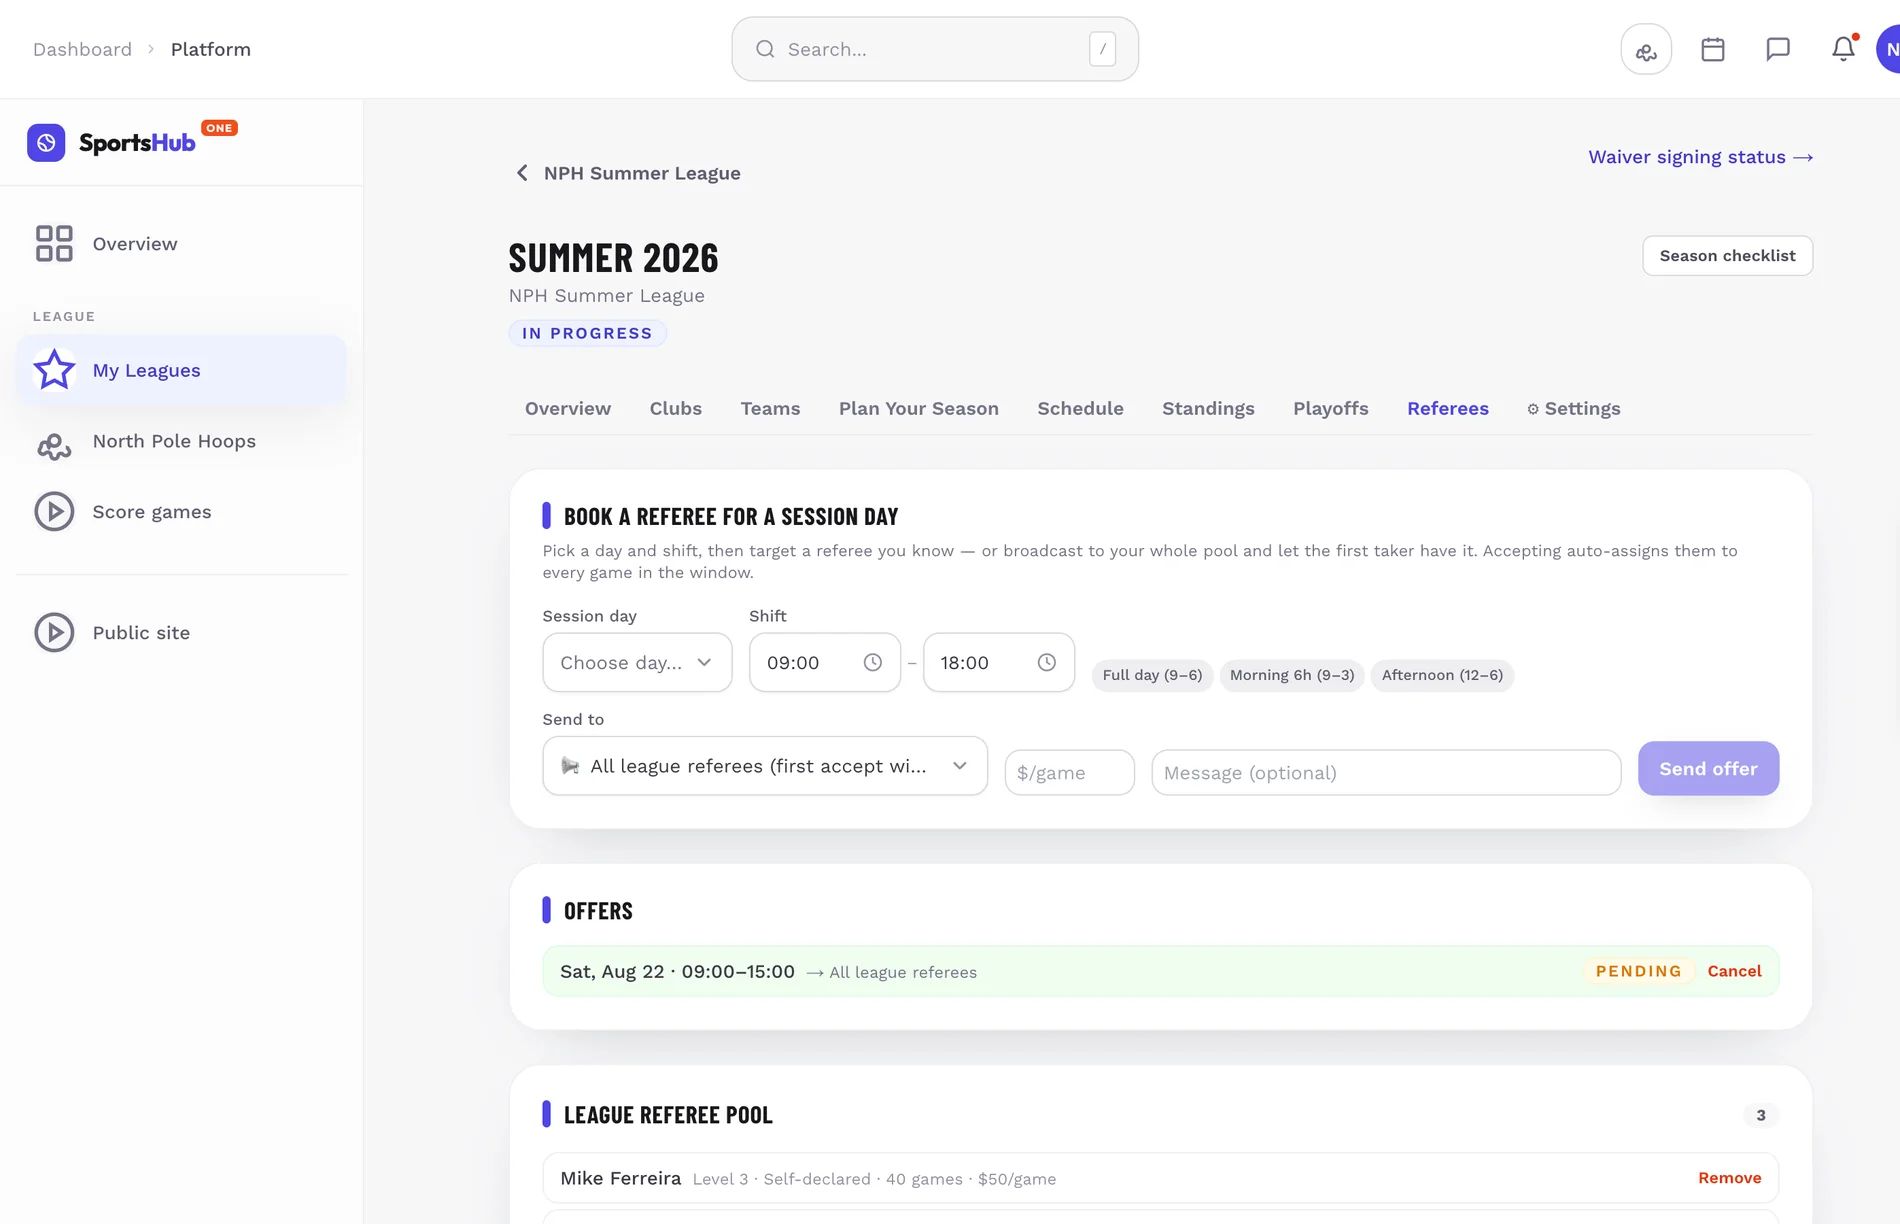
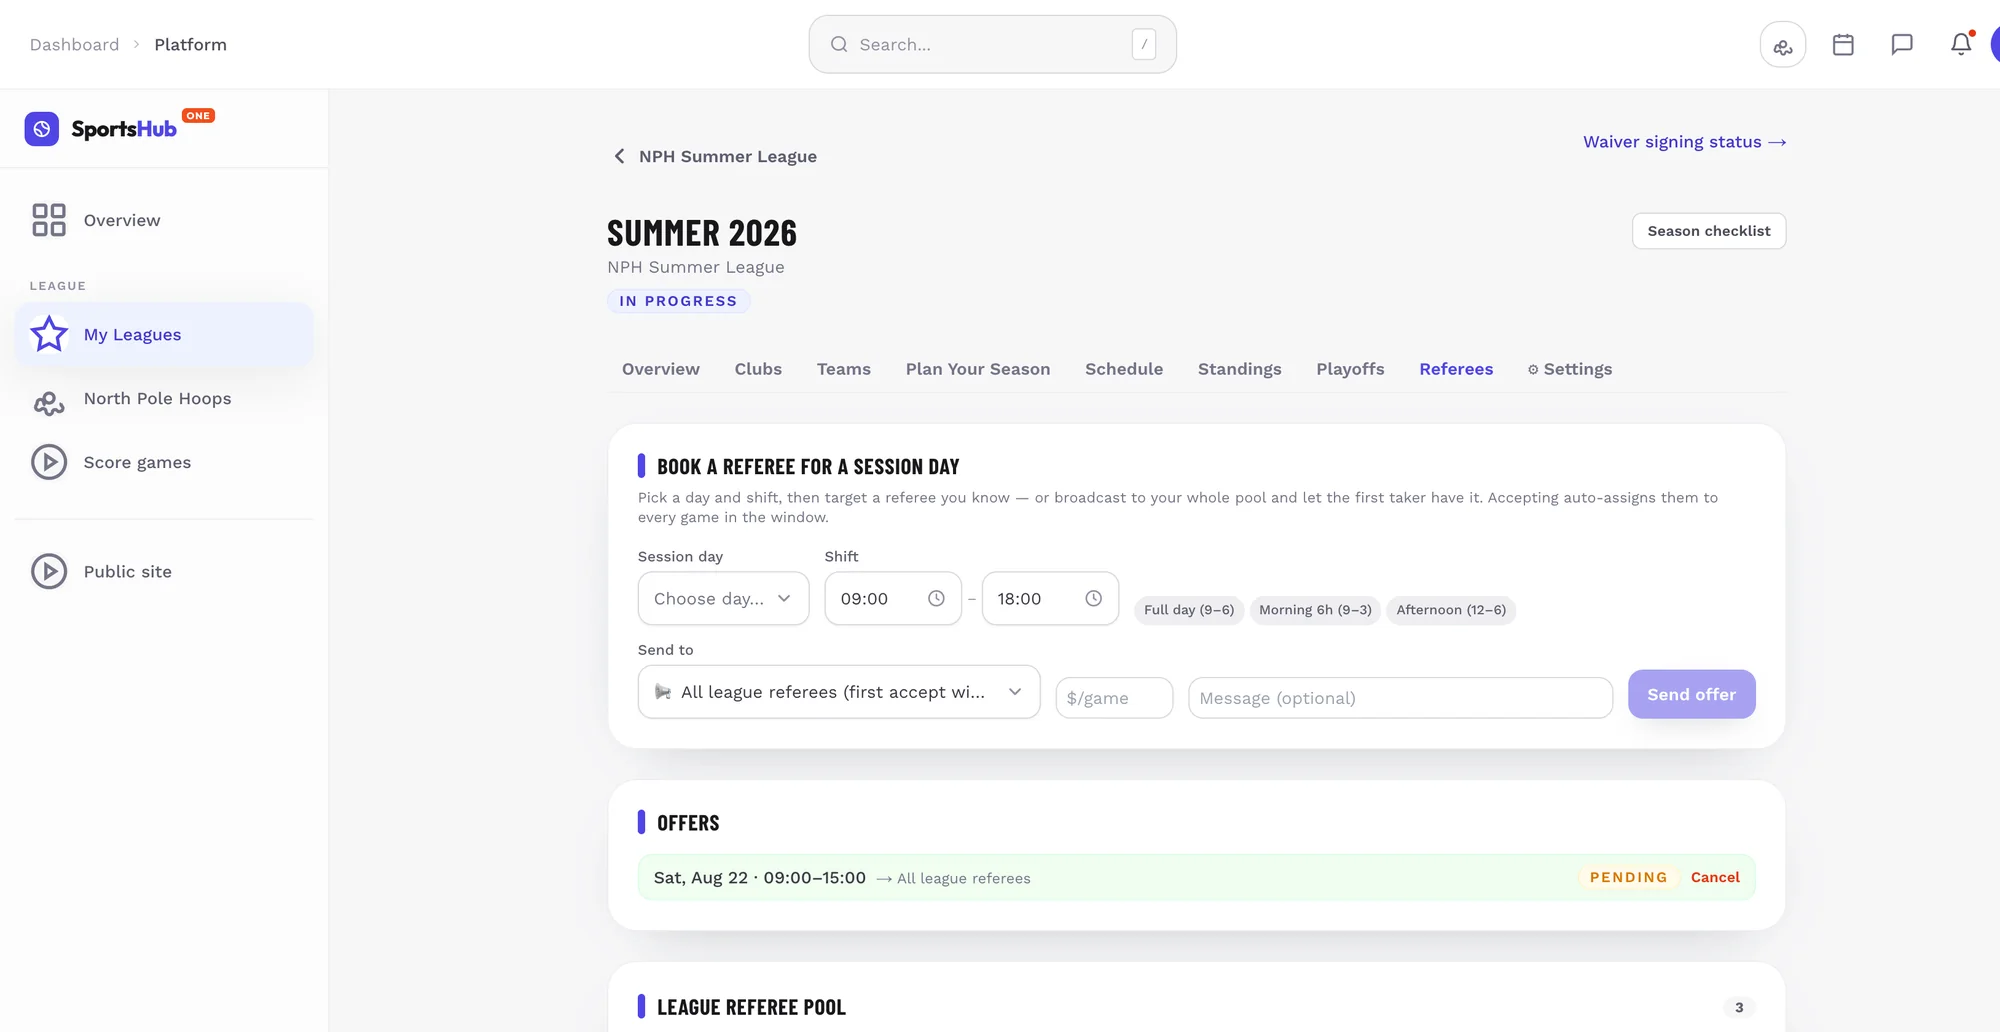
re-shot every screen wide, so the whole page fits and lands bigger
Showing the whole screenshot instead of cropping it fixed the missing content
but made the picture small: the captures were 1.55:1, a portrait-ish shape
fighting a slide box nearer 2.7:1, so letterboxing threw away most of the width.

Both sets are re-captured at 1680x840, which is 1.94:1 after cropping the demo
ribbon off the right edge. The console shot went from 731px across to 912px,
whole page still visible. Same pass for the neutral set: the league, its
organisation and the recap bodies were renamed locally, shot, and restored, with
the restore verified.

The plan capture is now the full planner page rather than a crop of its stepper,
which is the honest version of that screen until the planning seed exists.

diff --git a/apps/web/src/app/deck/_deck/league-deck.tsx b/apps/web/src/app/deck/_deck/league-deck.tsx
@@ -187,13 +187,13 @@ function ShotSlide({
 }
 
 const SHOTS = {
-  overview: { file: "overview.webp", w: 1900, h: 1224, alt: "The season console showing clubs entered, teams approved, what is waiting, and the season checklist" },
-  plan: { file: "plan.webp", w: 1900, h: 636, alt: "The five step season planner: teams, your buildings, your calendar, publish, schedule" },
-  schedule: { file: "schedule.webp", w: 1900, h: 1224, alt: "The scheduling tab with a check confirming every team has its full game count" },
-  playoffs: { file: "playoffs.webp", w: 1900, h: 1003, alt: "The playoff plan, checked against championship weekend" },
-  referees: { file: "referees.webp", w: 1900, h: 1224, alt: "Booking a referee for a session day and the league referee pool" },
-  waivers: { file: "waivers.webp", w: 1900, h: 1224, alt: "The waiver signing grid for the season" },
-  hub: { file: "hub.webp", w: 1900, h: 1224, alt: "The public league page with scores, schedule and scoring leaders" },
+  overview: { file: "overview.webp", w: 2000, h: 1032, alt: "The season console showing clubs entered, teams approved, what is waiting, and the season checklist" },
+  plan: { file: "plan.webp", w: 2000, h: 1032, alt: "The five step season planner: teams, your buildings, your calendar, publish, schedule" },
+  schedule: { file: "schedule.webp", w: 2000, h: 1032, alt: "The scheduling tab with a check confirming every team has its full game count" },
+  playoffs: { file: "playoffs.webp", w: 2000, h: 1032, alt: "The playoff plan, checked against championship weekend" },
+  referees: { file: "referees.webp", w: 2000, h: 1032, alt: "Booking a referee for a session day and the league referee pool" },
+  waivers: { file: "waivers.webp", w: 2000, h: 1032, alt: "The waiver signing grid for the season" },
+  hub: { file: "hub.webp", w: 2000, h: 1032, alt: "The public league page with scores, schedule and scoring leaders" },
 } satisfies Record<string, ShotDef>
 
 /* ── a team's Saturday, drawn ──────────────────────────────────────────────
